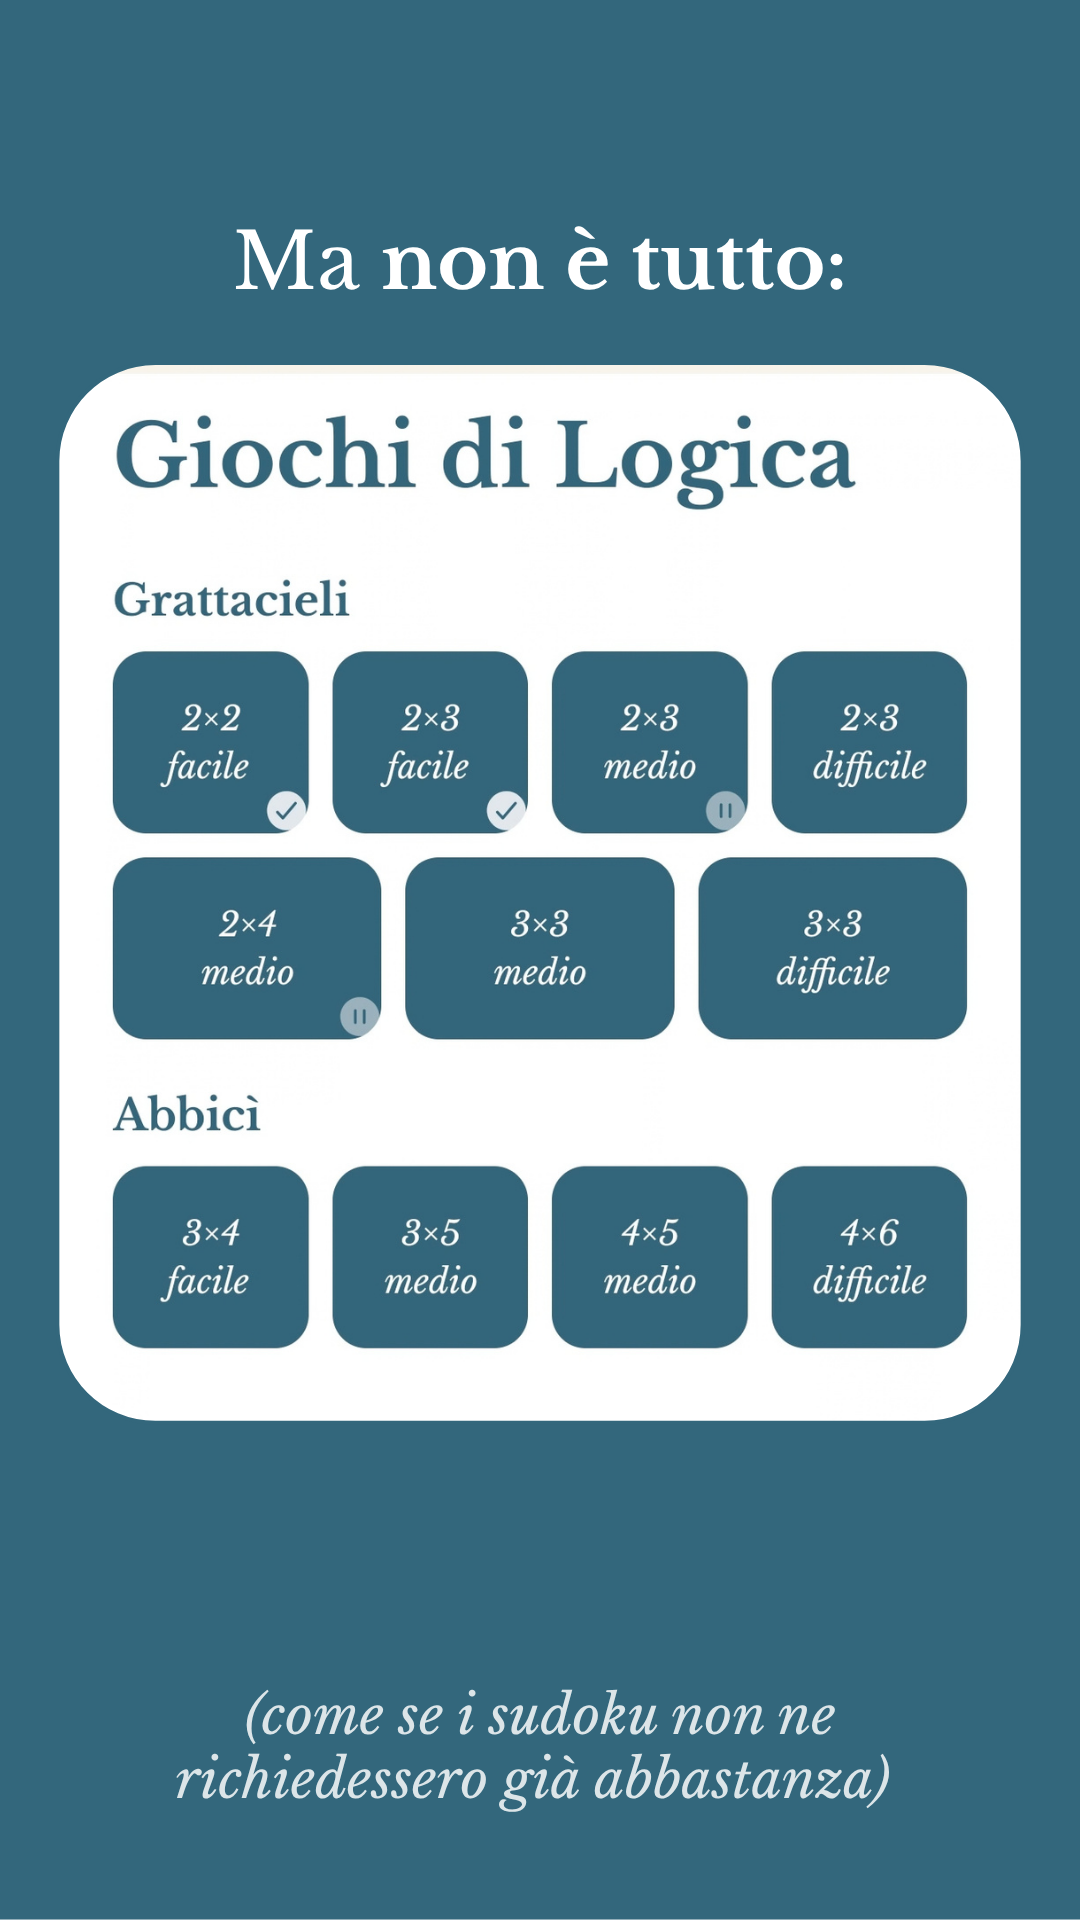
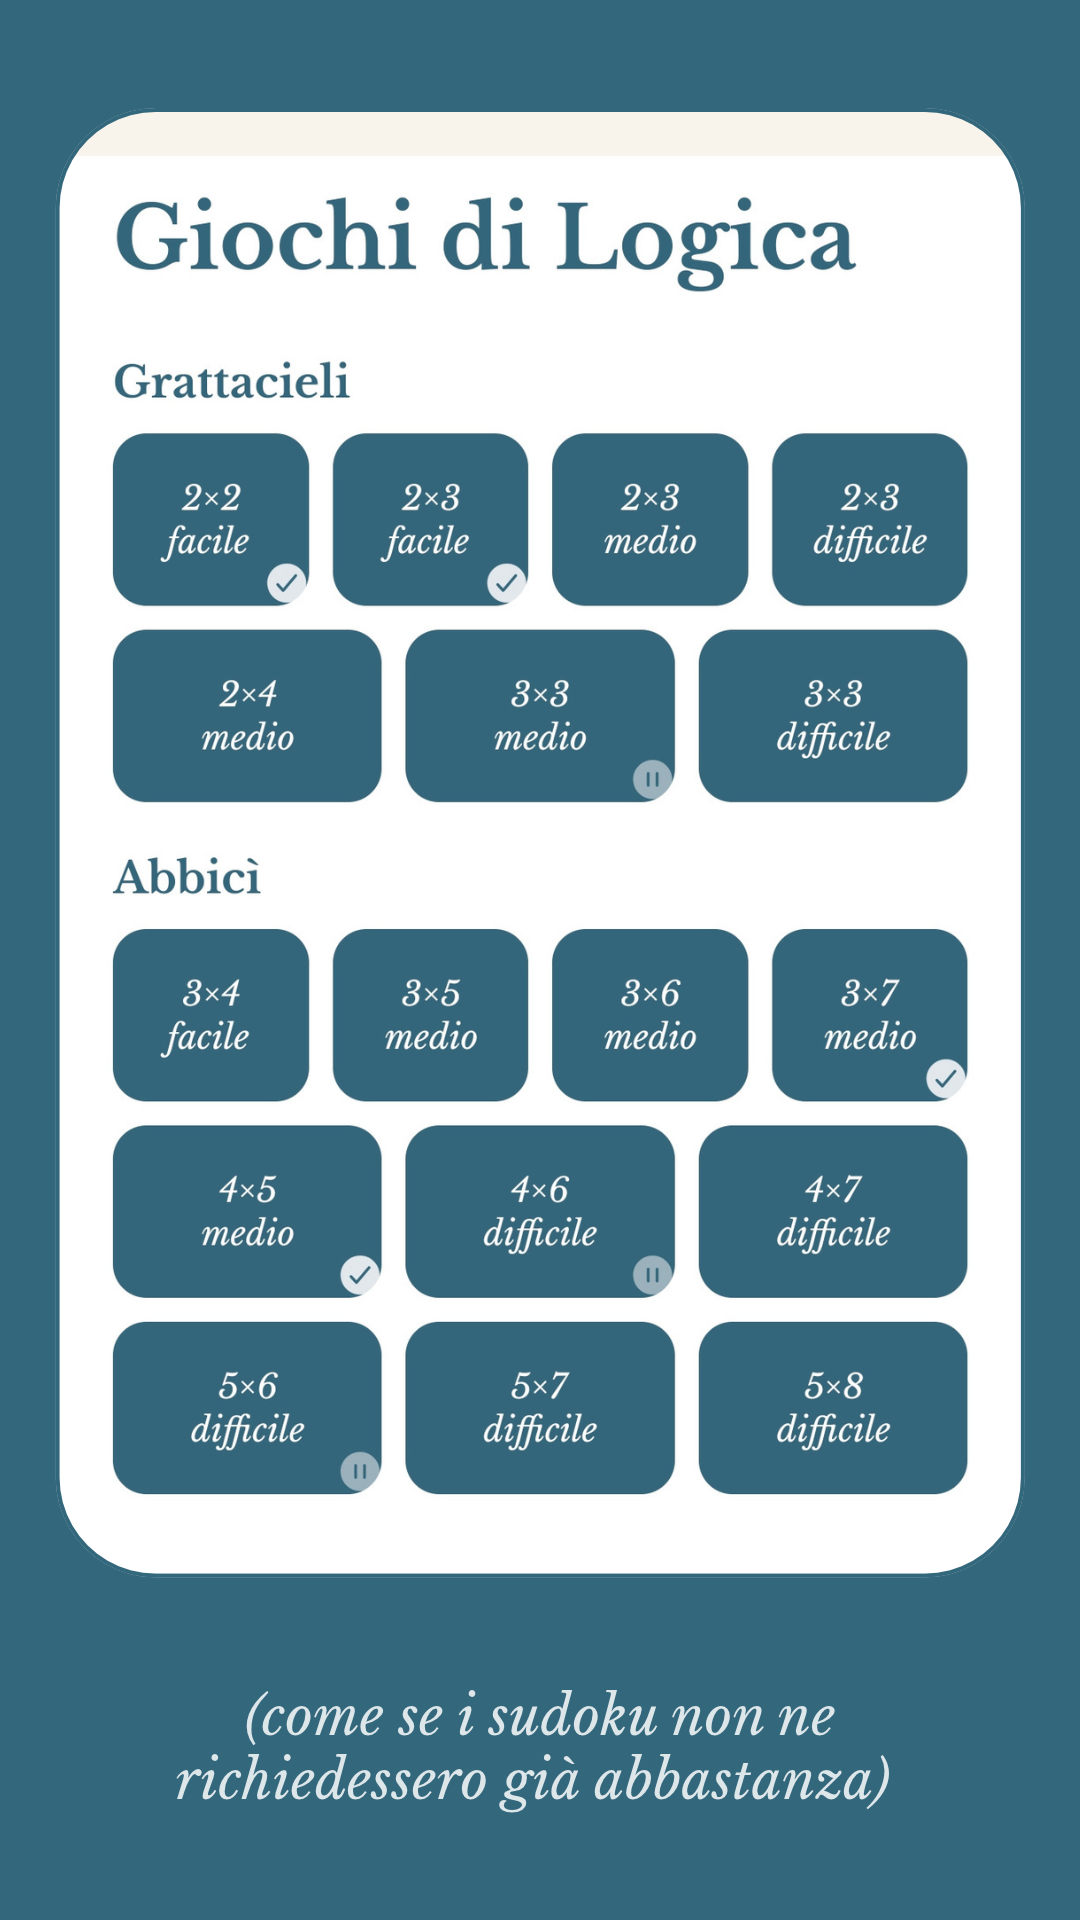
update

diff --git a/index.html b/index.html
@@ -395,17 +395,17 @@
 
           <div class="game-card card-crosswords">
             <h3>Parole crociate</h3>
-            <p>Classiche di varie dimensioni, crittografate, senza schema, samurai e a scacchiera; poi le varianti bifrontali, stenografiche, cicliche e con libertà... estrema, e persino schemi in inglese</p>
+            <p>Classiche di varie dimensioni, crittografate, senza schema, samurai e a scacchiera; poi le varianti bifrontali, stenografiche, cicliche, con libertà estrema e a righe concatenate, e persino schemi in inglese</p>
           </div>
 
           <div class="game-card card-sudoku">
             <h3>Sudoku</h3>
-            <p>Classici, ma non troppo: oltre ai 2x3 e 3x3, ci sono anche 2x4, 3x4 e 4x4, insieme alle varianti kropki, pari/dispari e consecutive</p>
+            <p>Classici, ma non troppo: oltre ai 2x3 e 3x3, ci sono anche 2x4, 3x4 e 4x4, insieme alle varianti finestra, kropki, pari/dispari, consecutivo, XV e maggiore/minore</p>
           </div>
 
           <div class="game-card card-logic">
             <h3>Giochi di logica</h3>
-            <p>Grattacieli, un'ulteriore variante del sudoku, e Abbicì, un gioco di incastri proposto in versione sia classica sia estesa, con anche la D</p>
+            <p>Grattacieli, un'ulteriore variante del sudoku, e Abbicì, un gioco di incastri proposto in versione sia classica sia estesa, con anche la D e la E</p>
           </div>
 
           <div class="game-card card-words">
